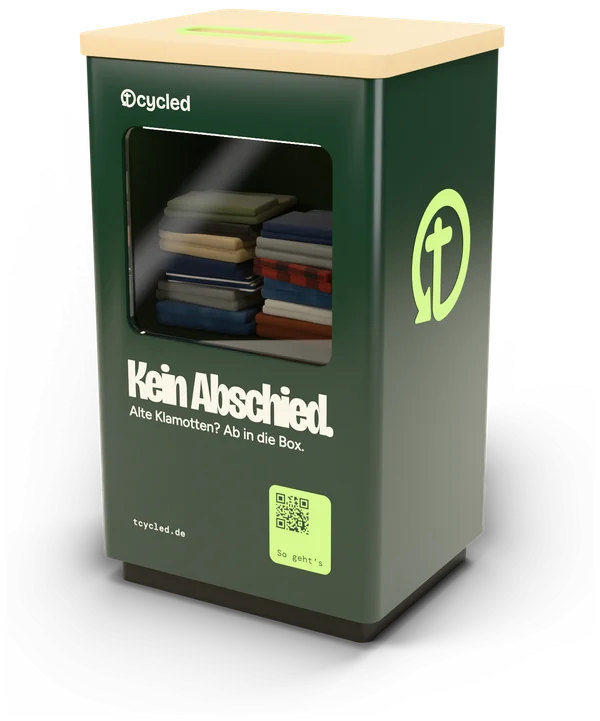
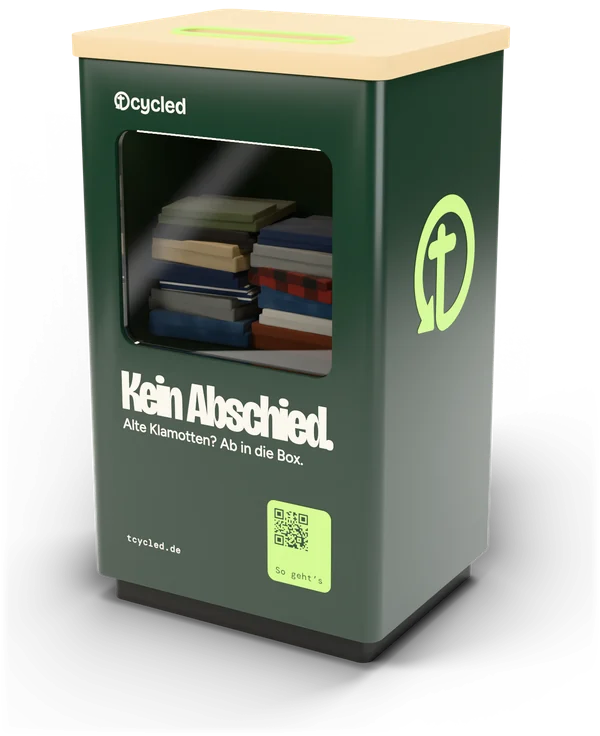
Stand the take-back box on a white hero
- The home hero is now white (dark in dark mode), and the nav matches it
  until the page scrolls. The loop lines no longer run behind the box.
- A new render of the box: softer, neutral light for a white background,
  folded clothes with softer, less block-like shapes, and a fainter
  reflection on the window. The shadow fades out more gently.

Claude-Session: https://claude.ai/code/session_01S3tizTuya89MHwbowwBkZQ

diff --git a/docs/index.html b/docs/index.html
@@ -22,6 +22,7 @@
   --paper: #F5F3EC;
   --paper-2: #EBE7DA;
   --card: #FFFFFF;
+  --stage: #FFFFFF;   /* the home hero: the take-back box stands on white */
   --ink: #0F1F17;
   --ink-2: #46554D;
   --ink-3: #5E6A63;
@@ -73,7 +74,7 @@
 }
 @media (prefers-color-scheme: dark) {
   :root:not([data-theme="light"]) {
-    --paper: #0B1510; --paper-2: #101D16; --card: #15221B; --ink: #EEF2EC; --ink-2: #B4C2B9; --ink-3: #93A399; --line: #26362D;
+    --paper: #0B1510; --paper-2: #101D16; --card: #15221B; --stage: #0B1510; --ink: #EEF2EC; --ink-2: #B4C2B9; --ink-3: #93A399; --line: #26362D;
     --loop: #5DD392; --code-green: #5DD392; --loop-2: #7FE0AA; --on-loop: #0B1510; --tide: #6FCFF5; --tide-tint: #0E2A38; --coral: #F4A08F; --coral-tint: #36190F;
     --leaf-tint: #15301F; --scrim: rgba(0, 0, 0, 0.62); --focus: #75D7F8;
     --shadow-1: 0 1px 2px rgba(0, 0, 0, 0.5), 0 10px 28px rgba(0, 0, 0, 0.35);
@@ -82,7 +83,7 @@
   }
 }
 :root[data-theme="dark"] {
-  --paper: #0B1510; --paper-2: #101D16; --card: #15221B; --ink: #EEF2EC; --ink-2: #B4C2B9; --ink-3: #93A399; --line: #26362D;
+  --paper: #0B1510; --paper-2: #101D16; --card: #15221B; --stage: #0B1510; --ink: #EEF2EC; --ink-2: #B4C2B9; --ink-3: #93A399; --line: #26362D;
   --loop: #5DD392; --code-green: #5DD392; --loop-2: #7FE0AA; --on-loop: #0B1510; --tide: #6FCFF5; --tide-tint: #0E2A38; --coral: #F4A08F; --coral-tint: #36190F;
   --leaf-tint: #15301F; --scrim: rgba(0, 0, 0, 0.62); --focus: #75D7F8;
   --shadow-1: 0 1px 2px rgba(0, 0, 0, 0.5), 0 10px 28px rgba(0, 0, 0, 0.35);
@@ -219,13 +220,14 @@ main:focus { outline: none; }
 .jump { display: flex; flex-wrap: wrap; gap: 8px; margin-top: 32px; }
 
 /* ---------- home hero ---------- */
-.hero { position: relative; overflow: clip; padding-block: clamp(32px, 5vw, 72px) clamp(56px, 7vw, 104px); }
+.hero { position: relative; overflow: clip; padding-block: clamp(32px, 5vw, 72px) clamp(56px, 7vw, 104px); background: var(--stage); }
+/* the nav matches the white hero until the page scrolls */
+body:has(#page-home:not([hidden])) .nav:not(.is-scrolled) { background: var(--stage); }
 .hero__grid { position: relative; z-index: 1; display: grid; grid-template-columns: minmax(0, 7fr) minmax(0, 5fr); gap: clamp(24px, 4vw, 56px); align-items: center; }
 @media (max-width: 980px) { .hero__grid { grid-template-columns: minmax(0, 1fr); } }
 .hero__title { margin-top: 22px; }
 .hero__title .line { display: block; }
 .hero .t-lead { margin-top: 28px; }
-@media (min-width: 981px) { .hero .living { -webkit-mask-image: radial-gradient(48% 42% at 20% 74%, rgba(0,0,0,.3) 30%, #000 100%); mask-image: radial-gradient(48% 42% at 20% 74%, rgba(0,0,0,.3) 30%, #000 100%); } }
 .hero__ctas { margin-top: 32px; }
 .scribble { position: relative; display: inline-block; white-space: nowrap; }
 .scribble svg { position: absolute; left: 0; top: 0; overflow: visible; pointer-events: none; }
@@ -1132,7 +1134,6 @@ main:has(.page:not([hidden]) > .band-ever:last-child) + .foot .foot__big { paddi
 <main id="main" tabindex="-1"><section class="page" id="page-home" data-route="home" data-title="Alte Klamotten per Post zurück, mit Gutschein" aria-label="Start">
 
   <div class="hero">
-    <canvas class="living" data-kind="loop" data-place="hero" aria-hidden="true"></canvas>
     <div class="wrap hero__grid">
       <div>
         <h1 class="t-hero hero__title" data-hv="a"><span class="line">Kein</span> <span class="line"><span class="scribble">Abschied.<svg aria-hidden="true" focusable="false"><path pathLength="1"/><polygon/></svg></span></span></h1>
@@ -1145,7 +1146,7 @@ main:has(.page:not([hidden]) > .band-ever:last-child) + .foot .foot__big { paddi
         <p class="t-small hero__note">Mit oder ohne App. Sortiert von Artus in Bad Oldesloe. <a href="#send">Kein Beutel? Ein eigener Karton geht auch.</a></p>
       </div>
       <figure class="hero__box">
-        <img src="assets/hero-box.webp" srcset="assets/hero-box-600.webp 600w, assets/hero-box.webp 1000w" sizes="(max-width: 540px) 74vw, (max-width: 980px) 400px, 500px" alt="Die tcycled-Rückgabebox für Läden, mit gefalteter Kleidung hinter dem Sichtfenster" width="1000" height="1202" loading="lazy" decoding="async">
+        <img src="assets/hero-box.webp" srcset="assets/hero-box-600.webp 600w, assets/hero-box.webp 1000w" sizes="(max-width: 540px) 74vw, (max-width: 980px) 400px, 500px" alt="Die tcycled-Rückgabebox für Läden, mit gefalteter Kleidung hinter dem Sichtfenster" width="1000" height="1226" loading="lazy" decoding="async">
       </figure>
     </div>
   </div>

diff --git a/docs/en.html b/docs/en.html
@@ -22,6 +22,7 @@
   --paper: #F5F3EC;
   --paper-2: #EBE7DA;
   --card: #FFFFFF;
+  --stage: #FFFFFF;   /* the home hero: the take-back box stands on white */
   --ink: #0F1F17;
   --ink-2: #46554D;
   --ink-3: #5E6A63;
@@ -73,7 +74,7 @@
 }
 @media (prefers-color-scheme: dark) {
   :root:not([data-theme="light"]) {
-    --paper: #0B1510; --paper-2: #101D16; --card: #15221B; --ink: #EEF2EC; --ink-2: #B4C2B9; --ink-3: #93A399; --line: #26362D;
+    --paper: #0B1510; --paper-2: #101D16; --card: #15221B; --stage: #0B1510; --ink: #EEF2EC; --ink-2: #B4C2B9; --ink-3: #93A399; --line: #26362D;
     --loop: #5DD392; --code-green: #5DD392; --loop-2: #7FE0AA; --on-loop: #0B1510; --tide: #6FCFF5; --tide-tint: #0E2A38; --coral: #F4A08F; --coral-tint: #36190F;
     --leaf-tint: #15301F; --scrim: rgba(0, 0, 0, 0.62); --focus: #75D7F8;
     --shadow-1: 0 1px 2px rgba(0, 0, 0, 0.5), 0 10px 28px rgba(0, 0, 0, 0.35);
@@ -82,7 +83,7 @@
   }
 }
 :root[data-theme="dark"] {
-  --paper: #0B1510; --paper-2: #101D16; --card: #15221B; --ink: #EEF2EC; --ink-2: #B4C2B9; --ink-3: #93A399; --line: #26362D;
+  --paper: #0B1510; --paper-2: #101D16; --card: #15221B; --stage: #0B1510; --ink: #EEF2EC; --ink-2: #B4C2B9; --ink-3: #93A399; --line: #26362D;
   --loop: #5DD392; --code-green: #5DD392; --loop-2: #7FE0AA; --on-loop: #0B1510; --tide: #6FCFF5; --tide-tint: #0E2A38; --coral: #F4A08F; --coral-tint: #36190F;
   --leaf-tint: #15301F; --scrim: rgba(0, 0, 0, 0.62); --focus: #75D7F8;
   --shadow-1: 0 1px 2px rgba(0, 0, 0, 0.5), 0 10px 28px rgba(0, 0, 0, 0.35);
@@ -219,13 +220,14 @@ main:focus { outline: none; }
 .jump { display: flex; flex-wrap: wrap; gap: 8px; margin-top: 32px; }
 
 /* ---------- home hero ---------- */
-.hero { position: relative; overflow: clip; padding-block: clamp(32px, 5vw, 72px) clamp(56px, 7vw, 104px); }
+.hero { position: relative; overflow: clip; padding-block: clamp(32px, 5vw, 72px) clamp(56px, 7vw, 104px); background: var(--stage); }
+/* the nav matches the white hero until the page scrolls */
+body:has(#page-home:not([hidden])) .nav:not(.is-scrolled) { background: var(--stage); }
 .hero__grid { position: relative; z-index: 1; display: grid; grid-template-columns: minmax(0, 7fr) minmax(0, 5fr); gap: clamp(24px, 4vw, 56px); align-items: center; }
 @media (max-width: 980px) { .hero__grid { grid-template-columns: minmax(0, 1fr); } }
 .hero__title { margin-top: 22px; }
 .hero__title .line { display: block; }
 .hero .t-lead { margin-top: 28px; }
-@media (min-width: 981px) { .hero .living { -webkit-mask-image: radial-gradient(48% 42% at 20% 74%, rgba(0,0,0,.3) 30%, #000 100%); mask-image: radial-gradient(48% 42% at 20% 74%, rgba(0,0,0,.3) 30%, #000 100%); } }
 .hero__ctas { margin-top: 32px; }
 .scribble { position: relative; display: inline-block; white-space: nowrap; }
 .scribble svg { position: absolute; left: 0; top: 0; overflow: visible; pointer-events: none; }
@@ -1132,7 +1134,6 @@ main:has(.page:not([hidden]) > .band-ever:last-child) + .foot .foot__big { paddi
 <main id="main" tabindex="-1"><section class="page" id="page-home" data-route="home" data-title="Old clothes back by post, with a voucher" aria-label="Home">
 
   <div class="hero">
-    <canvas class="living" data-kind="loop" data-place="hero" aria-hidden="true"></canvas>
     <div class="wrap hero__grid">
       <div>
         <h1 class="t-hero hero__title" data-hv="a"><span class="line">It's not</span> <span class="line"><span class="scribble">goodbye.<svg aria-hidden="true" focusable="false"><path pathLength="1"/><polygon/></svg></span></span></h1>
@@ -1145,7 +1146,7 @@ main:has(.page:not([hidden]) > .band-ever:last-child) + .foot .foot__big { paddi
         <p class="t-small hero__note">With or without the app. Sorted by Artus in Bad Oldesloe. <a href="#send">No bag? Your own box works too.</a></p>
       </div>
       <figure class="hero__box">
-        <img src="assets/hero-box.webp" srcset="assets/hero-box-600.webp 600w, assets/hero-box.webp 1000w" sizes="(max-width: 540px) 74vw, (max-width: 980px) 400px, 500px" alt="The tcycled take-back box for shops, with folded clothes behind its window" width="1000" height="1202" loading="lazy" decoding="async">
+        <img src="assets/hero-box.webp" srcset="assets/hero-box-600.webp 600w, assets/hero-box.webp 1000w" sizes="(max-width: 540px) 74vw, (max-width: 980px) 400px, 500px" alt="The tcycled take-back box for shops, with folded clothes behind its window" width="1000" height="1226" loading="lazy" decoding="async">
       </figure>
     </div>
   </div>

diff --git a/source/src/style.css b/source/src/style.css
@@ -4,6 +4,7 @@
   --paper: #F5F3EC;
   --paper-2: #EBE7DA;
   --card: #FFFFFF;
+  --stage: #FFFFFF;   /* the home hero: the take-back box stands on white */
   --ink: #0F1F17;
   --ink-2: #46554D;
   --ink-3: #5E6A63;
@@ -55,7 +56,7 @@
 }
 @media (prefers-color-scheme: dark) {
   :root:not([data-theme="light"]) {
-    --paper: #0B1510; --paper-2: #101D16; --card: #15221B; --ink: #EEF2EC; --ink-2: #B4C2B9; --ink-3: #93A399; --line: #26362D;
+    --paper: #0B1510; --paper-2: #101D16; --card: #15221B; --stage: #0B1510; --ink: #EEF2EC; --ink-2: #B4C2B9; --ink-3: #93A399; --line: #26362D;
     --loop: #5DD392; --code-green: #5DD392; --loop-2: #7FE0AA; --on-loop: #0B1510; --tide: #6FCFF5; --tide-tint: #0E2A38; --coral: #F4A08F; --coral-tint: #36190F;
     --leaf-tint: #15301F; --scrim: rgba(0, 0, 0, 0.62); --focus: #75D7F8;
     --shadow-1: 0 1px 2px rgba(0, 0, 0, 0.5), 0 10px 28px rgba(0, 0, 0, 0.35);
@@ -64,7 +65,7 @@
   }
 }
 :root[data-theme="dark"] {
-  --paper: #0B1510; --paper-2: #101D16; --card: #15221B; --ink: #EEF2EC; --ink-2: #B4C2B9; --ink-3: #93A399; --line: #26362D;
+  --paper: #0B1510; --paper-2: #101D16; --card: #15221B; --stage: #0B1510; --ink: #EEF2EC; --ink-2: #B4C2B9; --ink-3: #93A399; --line: #26362D;
   --loop: #5DD392; --code-green: #5DD392; --loop-2: #7FE0AA; --on-loop: #0B1510; --tide: #6FCFF5; --tide-tint: #0E2A38; --coral: #F4A08F; --coral-tint: #36190F;
   --leaf-tint: #15301F; --scrim: rgba(0, 0, 0, 0.62); --focus: #75D7F8;
   --shadow-1: 0 1px 2px rgba(0, 0, 0, 0.5), 0 10px 28px rgba(0, 0, 0, 0.35);
@@ -201,13 +202,14 @@ main:focus { outline: none; }
 .jump { display: flex; flex-wrap: wrap; gap: 8px; margin-top: 32px; }
 
 /* ---------- home hero ---------- */
-.hero { position: relative; overflow: clip; padding-block: clamp(32px, 5vw, 72px) clamp(56px, 7vw, 104px); }
+.hero { position: relative; overflow: clip; padding-block: clamp(32px, 5vw, 72px) clamp(56px, 7vw, 104px); background: var(--stage); }
+/* the nav matches the white hero until the page scrolls */
+body:has(#page-home:not([hidden])) .nav:not(.is-scrolled) { background: var(--stage); }
 .hero__grid { position: relative; z-index: 1; display: grid; grid-template-columns: minmax(0, 7fr) minmax(0, 5fr); gap: clamp(24px, 4vw, 56px); align-items: center; }
 @media (max-width: 980px) { .hero__grid { grid-template-columns: minmax(0, 1fr); } }
 .hero__title { margin-top: 22px; }
 .hero__title .line { display: block; }
 .hero .t-lead { margin-top: 28px; }
-@media (min-width: 981px) { .hero .living { -webkit-mask-image: radial-gradient(48% 42% at 20% 74%, rgba(0,0,0,.3) 30%, #000 100%); mask-image: radial-gradient(48% 42% at 20% 74%, rgba(0,0,0,.3) 30%, #000 100%); } }
 .hero__ctas { margin-top: 32px; }
 .scribble { position: relative; display: inline-block; white-space: nowrap; }
 .scribble svg { position: absolute; left: 0; top: 0; overflow: visible; pointer-events: none; }

diff --git a/source/src/pages/01-home.html b/source/src/pages/01-home.html
@@ -1,7 +1,6 @@
 <section class="page" id="page-home" data-route="home" data-title="Old clothes back by post, with a voucher" aria-label="Home">
 
   <div class="hero">
-    <canvas class="living" data-kind="loop" data-place="hero" aria-hidden="true"></canvas>
     <div class="wrap hero__grid">
       <div>
         <h1 class="t-hero hero__title" data-hv="a"><span class="line">It's not</span> <span class="line"><span class="scribble">goodbye.<svg aria-hidden="true" focusable="false"><path pathLength="1"/><polygon/></svg></span></span></h1>
@@ -14,7 +13,7 @@
         <p class="t-small hero__note">With or without the app. Sorted by Artus in Bad Oldesloe. <a href="#send">No bag? Your own box works too.</a></p>
       </div>
       <figure class="hero__box">
-        <img src="assets/hero-box.webp" srcset="assets/hero-box-600.webp 600w, assets/hero-box.webp 1000w" sizes="(max-width: 540px) 74vw, (max-width: 980px) 400px, 500px" alt="The tcycled take-back box for shops, with folded clothes behind its window" width="1000" height="1202" loading="lazy" decoding="async">
+        <img src="assets/hero-box.webp" srcset="assets/hero-box-600.webp 600w, assets/hero-box.webp 1000w" sizes="(max-width: 540px) 74vw, (max-width: 980px) 400px, 500px" alt="The tcycled take-back box for shops, with folded clothes behind its window" width="1000" height="1226" loading="lazy" decoding="async">
       </figure>
     </div>
   </div>
